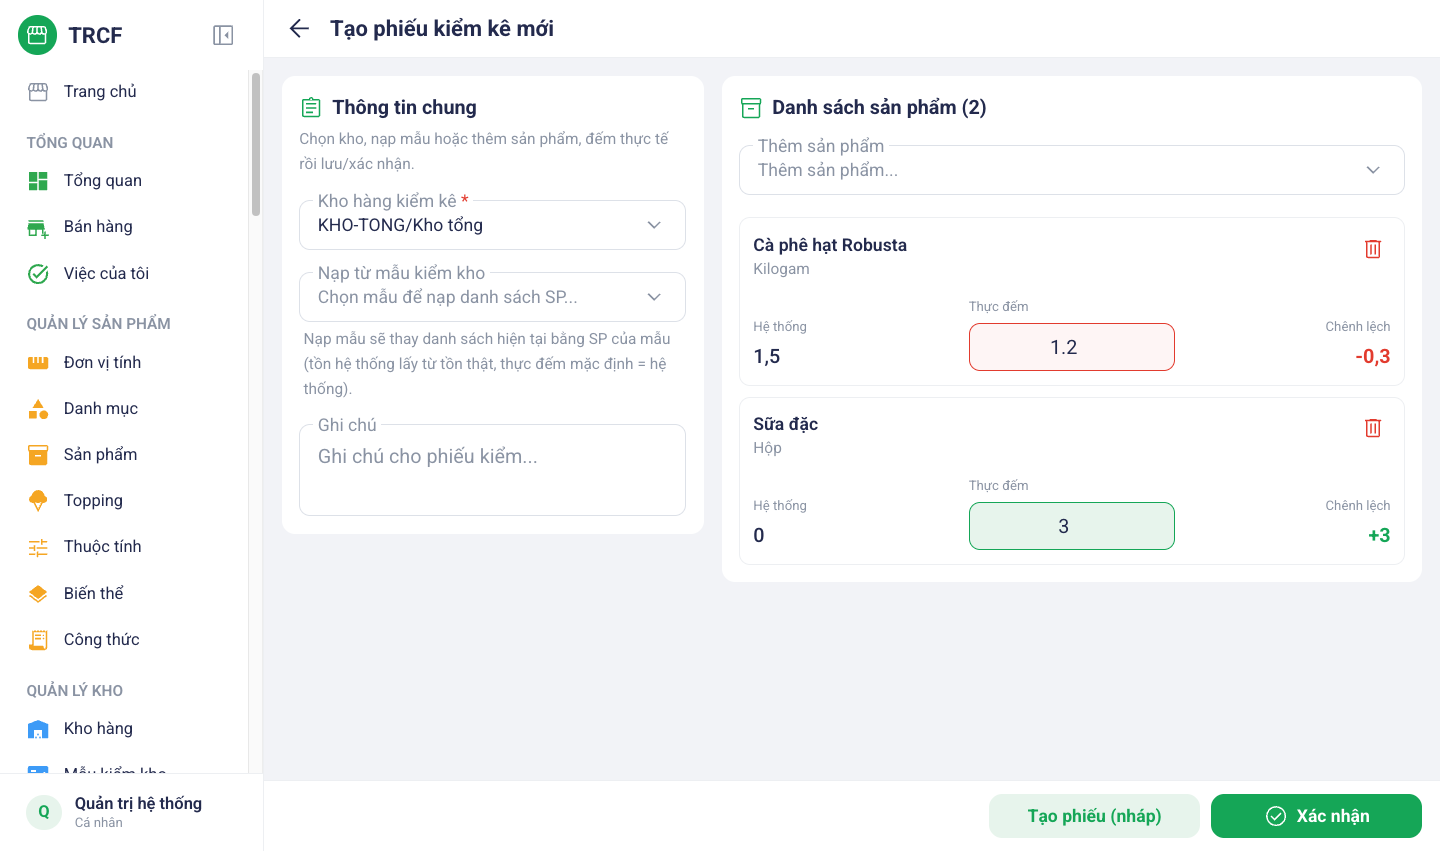
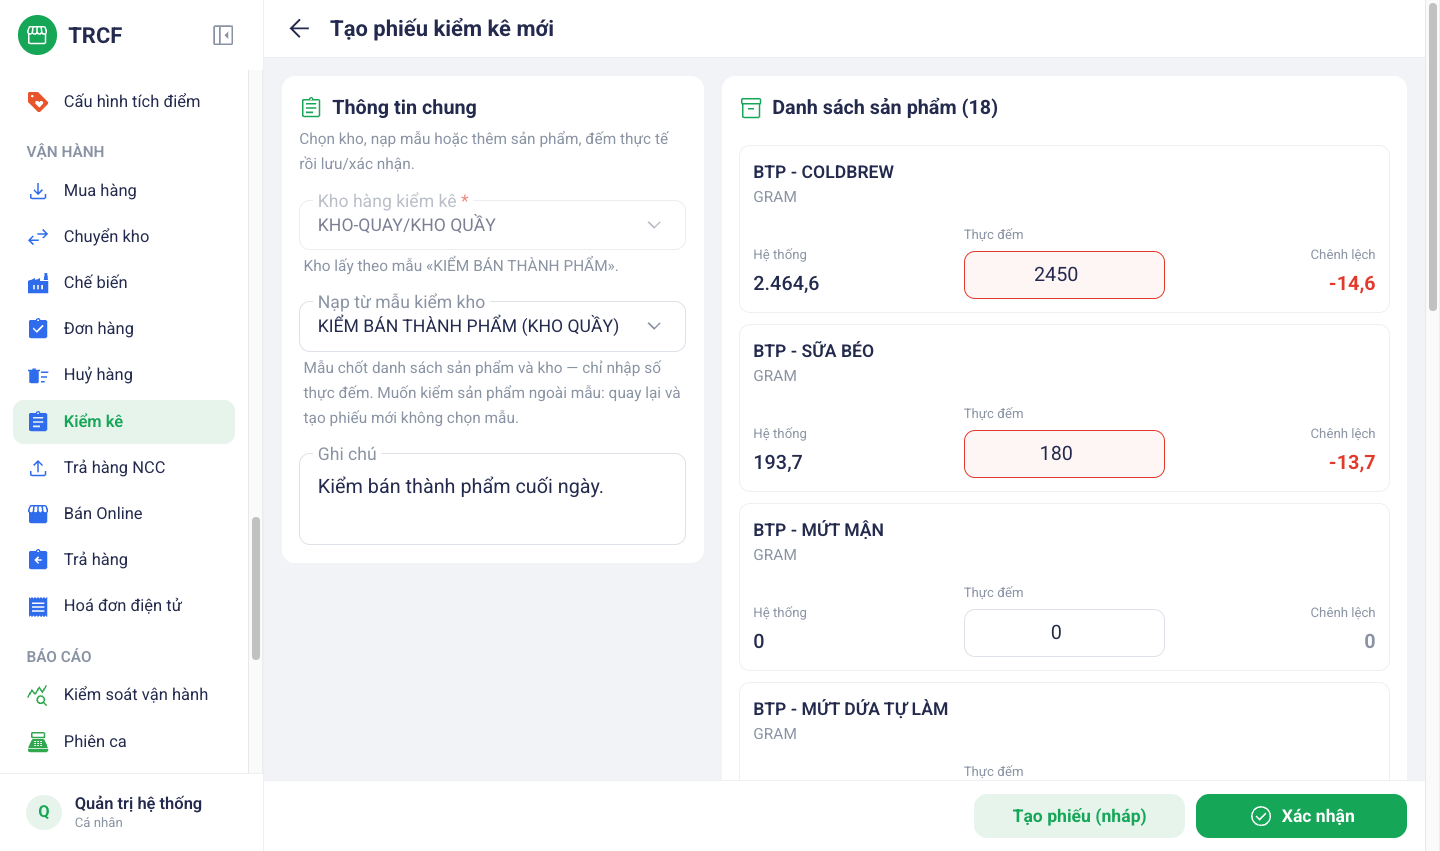
docs(11.6): kiểm kho theo dữ liệu thật — mẫu KIỂM BÁN THÀNH PHẨM ở KHO QUẦY

diff --git a/noi-dung/11-6-kiem-kho.md b/noi-dung/11-6-kiem-kho.md
@@ -14,10 +14,11 @@ Dựng mẫu kiểm kho trước ở [bài 6.1 Tạo mẫu kiểm kho](6-1-tao-m
 
 ## 2. Ví dụ nền và các bước thực hiện
 
-> **Ví dụ:** kiểm **Kho tổng**, đếm 2 mặt hàng.
+> **Ví dụ:** cuối ngày, kiểm **KHO QUẦY** bằng mẫu **KIỂM BÁN THÀNH PHẨM** (18 món). Quán kiểm mẫu này 2 lần mỗi ngày: trưa và tối, như danh sách ở ảnh bước 1.
 >
-> - **Cà phê hạt Robusta**: hệ thống 1,5 kg, đếm thật **1.2** kg → chênh lệch -0,3.
-> - **Sữa đặc**: hệ thống 0 hộp, đếm thật **3** hộp → chênh lệch +3.
+> - **BTP - COLDBREW**: hệ thống 2.464,6 GR, đếm thật **2450** → chênh lệch −14,6.
+> - **BTP - SỮA BÉO**: hệ thống 193,7 GR, đếm thật **180** → chênh lệch −13,7.
+> - Các món còn lại đếm đúng bằng hệ thống, để nguyên.
 
 ### Bước 1: Mở trang Kiểm kê
 
@@ -28,8 +29,8 @@ Dựng mẫu kiểm kho trước ở [bài 6.1 Tạo mẫu kiểm kho](6-1-tao-m
 ### Bước 2: Khai phiếu và đếm hàng
 
 - Bấm nút tròn **+** ở góc dưới bên phải.
-- Chọn kho trước, rồi nạp danh sách hàng (2 cách, xem phần 3).
-- Đi đếm thật, nhập vào ô **Thực đếm** như ảnh.
+- Chọn **Nạp từ mẫu kiểm kho** → "KIỂM BÁN THÀNH PHẨM (KHO QUẦY)". Kho tự điền theo mẫu.
+- Đi đếm thật, nhập vào ô **Thực đếm** như ảnh. Món đếm đúng thì để nguyên.
 - Chưa đếm xong: bấm **Tạo phiếu (nháp)**, quay lại làm tiếp sau.
 - Đếm xong ngay: bấm **Xác nhận**, rồi xác nhận lần nữa ở hộp thoại hỏi lại.
 
@@ -66,7 +67,7 @@ Dựng mẫu kiểm kho trước ở [bài 6.1 Tạo mẫu kiểm kho](6-1-tao-m
 
 | Loại hàng | Tần suất |
 | --- | --- |
-| Hàng dễ hỏng | Hằng ngày, cuối ca |
+| Bán thành phẩm, hàng dễ hỏng | Hằng ngày, cuối ca |
 | Hàng khô | Hằng tuần |
 | Toàn bộ | Cuối tháng |
 
